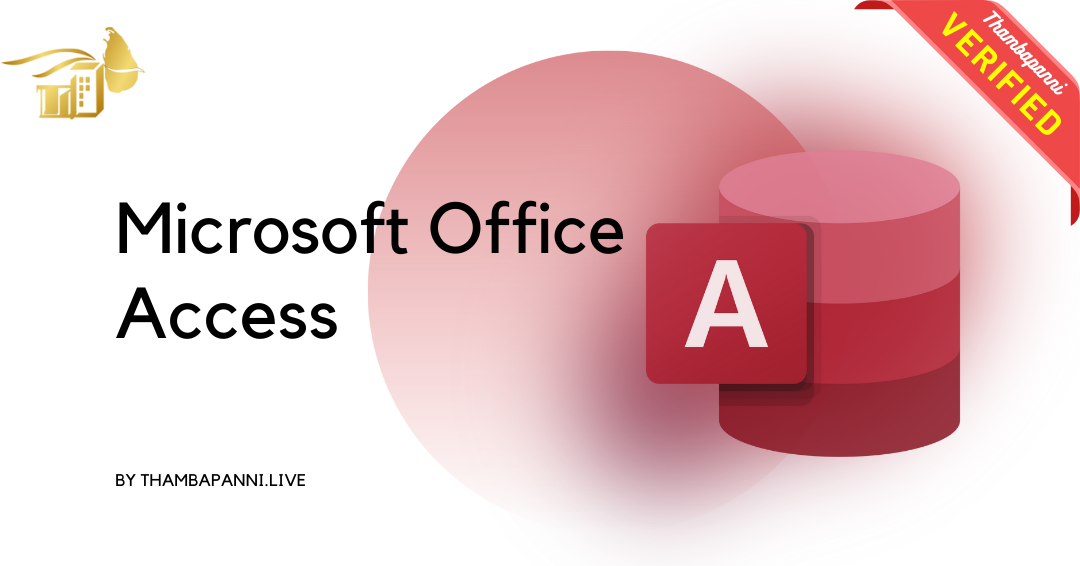
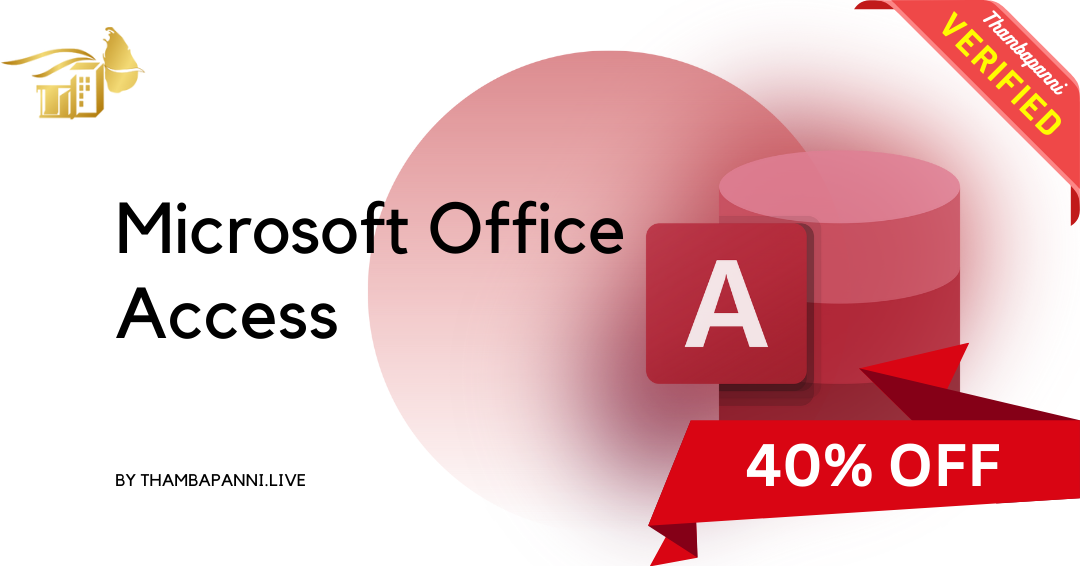
Add discount images

Changed region(s): [[0.5806, 0.6007, 1.0, 1.0]]

diff --git a/courses/webDesign.html b/courses/webDesign.html
@@ -68,7 +68,7 @@
     <!--    topic-->
     <div class="row  d-flex justify-content-center align-items-center pt-lg-5">
         <div class="col-12 text-center">
-            <h3 class="text-yellow page-topic ">PROGRAMMING</h3>
+            <h3 class="text-yellow page-topic ">WEB DESIGNING</h3>
             <h6 class="text-yellow">ZERO TO HERO</h6>
         </div>
     </div>
